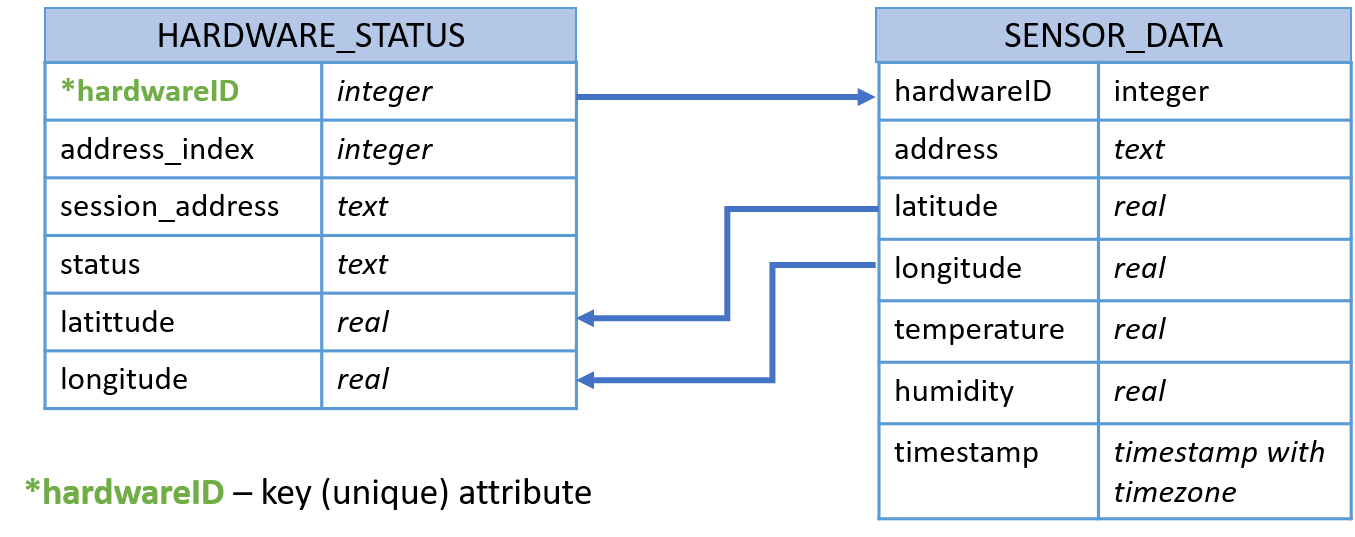
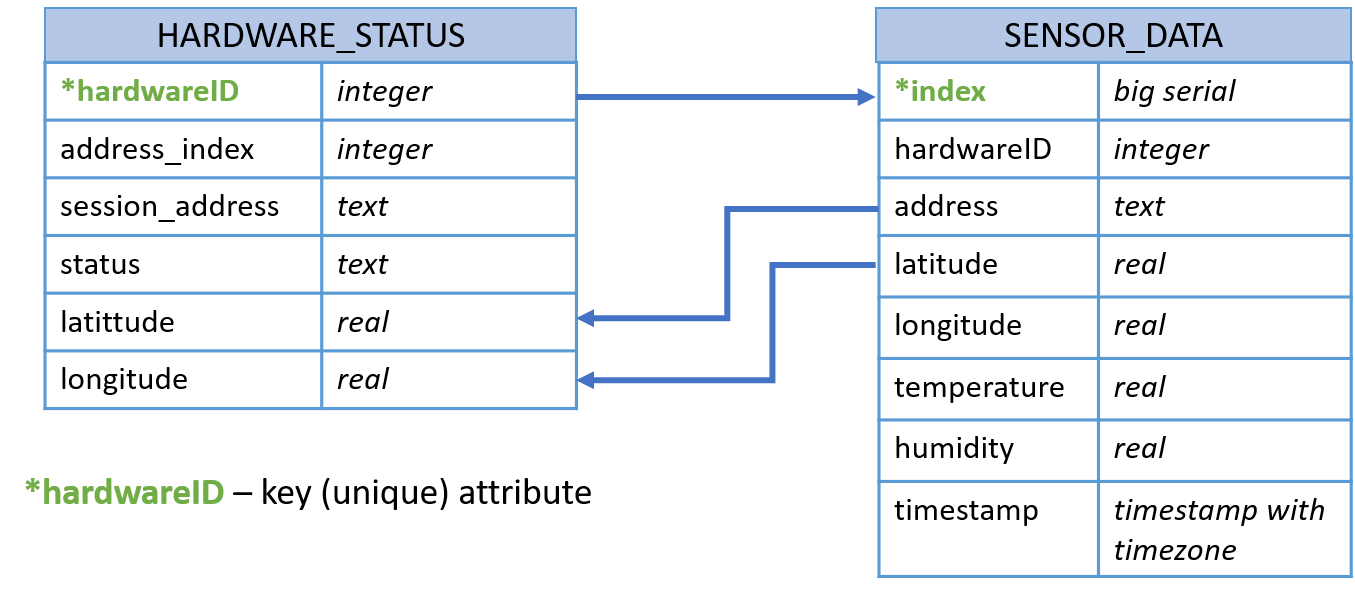
update database structure

Changed region(s): [[0.031, 0.0, 1.0, 0.9832], [0.0, 0.8045, 0.4339, 0.8641], [0.0, 0.8939, 0.4339, 0.9534]]

diff --git a/documentation/API_DB_structure.md b/documentation/API_DB_structure.md
@@ -86,11 +86,12 @@ Password: 'iota999'
 ### 3. Server functions
 - Check validity of all **REST** requests, especially the format of the sent JSON data as defined in Section 1.2
 - Everytime a valid **PUT** request is received, update the `status`, `latitude` and `longitude` fields of given `hardwareID` in the `HARDWARE_STATUS` table with received data
+    - example query to update data in PostgreSQL: `UPDATE "HARDWARE_STATUS" SET "status" = 'parked', latitude = 55.990, longitude = 6.001 WHERE "hardwareID" = 1`
 - Everytime a valid **GET** request is received (as the bike status changes from "rented" to "parked"), for the given `hardwareID`, 
     - query the value of current `address_index` in the `HARDWARE_STATUS` table, increment it by 1 and update its value in the table
     - generate a new `session_address` based on the new `address_index` using the IOTA library and update its value in the `HARDWARE_STATUS` table
     - return the new `session_address` in the API response body
 - Everytime a valid **POST** request is received
     - insert all received data together with an auto generated timestamp in the `SENSOR_DATA` table
-        - example query to insert data with automatic timestamp in PostgreSQL: `INSERT into "SENSOR_DATA" values (1, 'ABC...999', 52.5157, 5.8992, 23.57, 40.5, current_timestamp)`
+        - example query to insert data with automatic timestamp in PostgreSQL: `INSERT into "SENSOR_DATA" values (default, 1, 'ABC...999', 52.5157, 5.8992, 23.57, 40.5, current_timestamp)`
     - update the `latitude` and `longitude` fields of given `hardwareID` in the `HARDWARE_STATUS` table with received data
